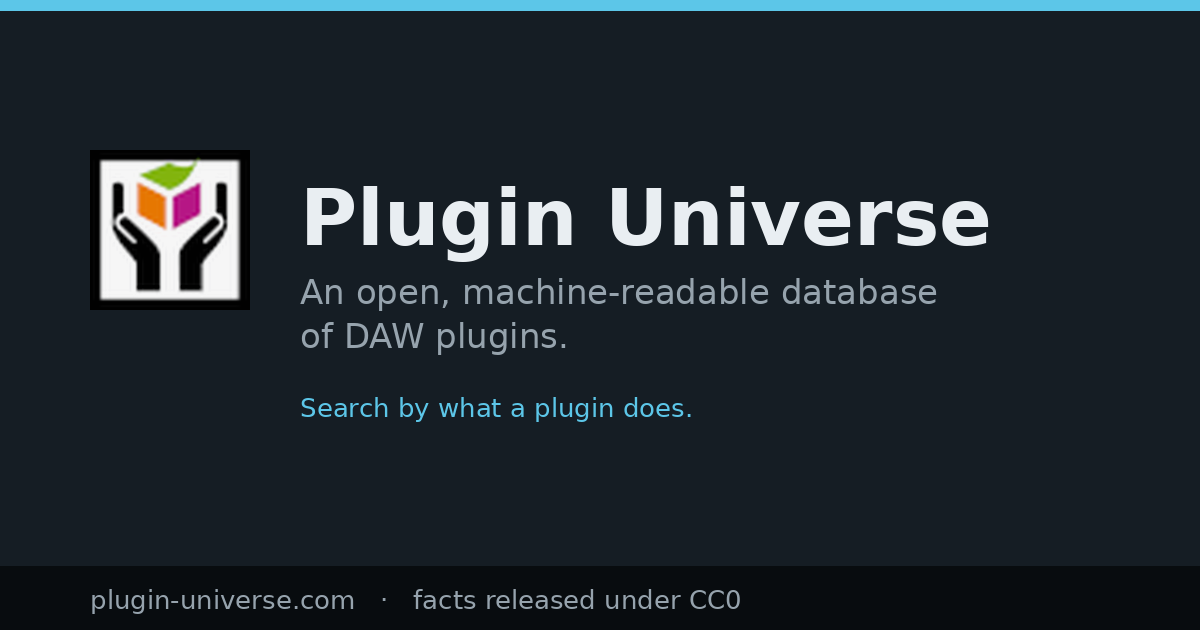
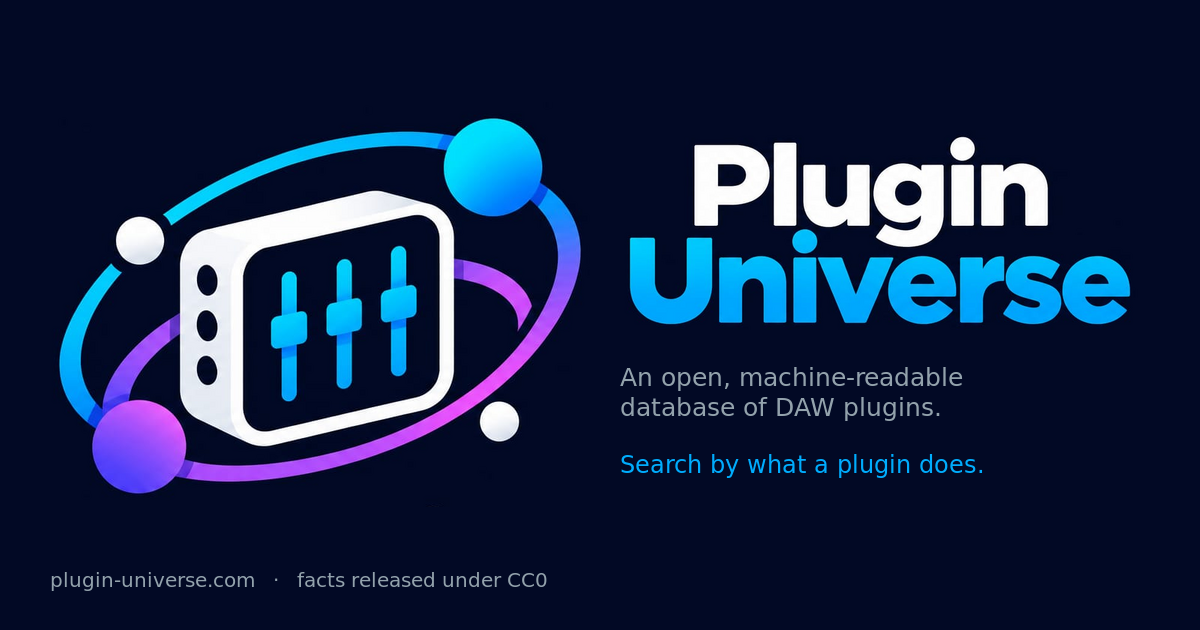
branding

diff --git a/tests/api/metadata.test.js b/tests/api/metadata.test.js
@@ -6,6 +6,7 @@ import {
 } from '../../src/api/render.js'
 import { PAGES } from '../../src/api/pages.js'
 import { readFileSync } from 'fs'
+import { STATIC_FILES } from '../../src/api/server.js'
 import Config from '../../src/Config.js'
 
 /**
@@ -170,5 +171,45 @@ describe('the prose pages describe themselves', () => {
     expect(PAGES['/leggere-prima'].lang).toBe('it')
     const html = renderDocPage({ ...PAGES['/leggere-prima'], html: '<p>Ciao.</p>' })
     expect(html).toContain('<html lang="it">')
+  })
+})
+
+describe('the brand images', () => {
+  const size = file => {
+    const bytes = readFileSync(file)
+    return { width: bytes.readUInt32BE(16), height: bytes.readUInt32BE(20) }
+  }
+
+  it('serves every icon the manifest and the layout name', () => {
+    const manifest = JSON.parse(readFileSync('site.webmanifest', 'utf8'))
+    const html = PAGE_TYPES.landing()
+    const named = [
+      ...manifest.icons.map(icon => icon.src),
+      ...[...html.matchAll(/<link rel="(?:icon|apple-touch-icon|manifest)"[^>]*href="([^"]+)"/g)].map(m => m[1])
+    ]
+    expect(named.length).toBeGreaterThanOrEqual(5)
+    for (const path of named) {
+      expect(STATIC_FILES[path], `${path} is named but not served`).toBeTruthy()
+    }
+    // The header mark is an <img>, which linked-routes reads; it must also exist.
+    expect(html).toContain('src="/icon-192.png"')
+  })
+
+  it('declares each manifest icon at the size the file really is', () => {
+    const manifest = JSON.parse(readFileSync('site.webmanifest', 'utf8'))
+    for (const icon of manifest.icons) {
+      const { width, height } = size(STATIC_FILES[icon.src].file)
+      expect(`${width}x${height}`, icon.src).toBe(icon.sizes)
+    }
+  })
+
+  it('keeps the apple-touch-icon at 180px', () => {
+    expect(size('apple-touch-icon.png')).toEqual({ width: 180, height: 180 })
+  })
+
+  it('gives the Twitter card an image and its description', () => {
+    const html = PAGE_TYPES.landing()
+    expect(tag(html, 'twitter:image')).toBe(`${ORIGIN}/og-image.png`)
+    expect(tag(html, 'twitter:image:alt')).toBeTruthy()
   })
 })

diff --git a/src/api/server.js b/src/api/server.js
@@ -177,13 +177,14 @@ export const BUILD = Object.freeze({
  */
 export const STATIC_FILES = Object.freeze({
   '/robots.txt': { file: 'robots.txt', type: 'text/plain; charset=utf-8' },
-  // The site mark. A placeholder: it is the hyperdata.it favicon, which is the
-  // owner's own design, standing in until this project has one of its own.
+  // The site mark, cut from docs/images/logo.jpeg by deploy/build-brand-assets.sh.
   //
-  // Both forms, because browsers ask for them differently. `<link rel="icon">`
+  // Several forms, because clients ask for them differently. `<link rel="icon">`
   // in the layout points at the PNG; a browser that has not read the markup yet
   // — or a feed reader, or a bookmarking tool — asks for `/favicon.ico` at the
-  // root by convention, and answering 404 to that is a needless miss.
+  // root by convention, and answering 404 to that is a needless miss. iOS wants
+  // the apple-touch-icon, and the manifest's two sizes are what Android and
+  // installed-app surfaces use (the header mark reuses the 192).
   // The site's one script: a spinner on a submit button and nothing else.
   // Served as a file rather than inlined so a Content-Security-Policy can be
   // added later without an exception, and so a browser caches it.
@@ -209,6 +210,26 @@ export const STATIC_FILES = Object.freeze({
     file: 'favicon.ico',
     type: 'image/x-icon',
     cache: 'public, max-age=604800'
+  },
+  '/apple-touch-icon.png': {
+    file: 'apple-touch-icon.png',
+    type: 'image/png',
+    cache: 'public, max-age=604800'
+  },
+  '/icon-192.png': {
+    file: 'icon-192.png',
+    type: 'image/png',
+    cache: 'public, max-age=604800'
+  },
+  '/icon-512.png': {
+    file: 'icon-512.png',
+    type: 'image/png',
+    cache: 'public, max-age=604800'
+  },
+  '/site.webmanifest': {
+    file: 'site.webmanifest',
+    type: 'application/manifest+json; charset=utf-8',
+    cache: 'public, max-age=86400'
   }
 })
 

diff --git a/templates/site.css b/templates/site.css
@@ -75,9 +75,11 @@ header { border-bottom:0; padding-bottom:.8rem; margin-bottom:1.25rem; position:
 /* A band of accent across the very top. Full width, above everything, and it
    is most of what makes the page look composed rather than defaulted. */
 body { border-top:4px solid var(--accent); }
-h1 a::before { content:""; display:inline-block; width:.55rem; height:.55rem;
-               margin-right:.5rem; background:var(--accent); border-radius:1px;
-               vertical-align:baseline; }
+/* The brand mark in front of the title, replacing the accent square that stood
+   in for one. Explicit width and height on the image reserve its space, so the
+   header does not shift as it loads. */
+h1 a { display:inline-flex; align-items:center; gap:.6rem; }
+h1 .mark { width:2.1rem; height:2.1rem; border-radius:.45rem; }
 /* The bar wraps rather than overflowing. It has collided with the title twice:
    once when it grew from one link to two and a button, and again when a third
    link was added — an absolutely positioned corner has no way to say "I have

diff --git a/templates/layout.html b/templates/layout.html
@@ -7,7 +7,11 @@
   <title>{{title}}</title>
   {{{description}}}
   {{{social}}}
+  <link rel="icon" href="/favicon.ico" sizes="16x16 32x32 48x48">
   <link rel="icon" type="image/png" sizes="48x48" href="/favicon.png">
+  <link rel="apple-touch-icon" href="/apple-touch-icon.png">
+  <link rel="manifest" href="/site.webmanifest">
+  <meta name="theme-color" content="#020925">
   {{{style}}}
   <script src="/site.js" defer></script>
 </head>
@@ -17,7 +21,7 @@
   <div class="wrap">
     <header>
       {{{account}}}
-      <h1><a href="/">Plugin Universe</a></h1>
+      <h1><a href="/"><img class="mark" src="/icon-192.png" width="36" height="36" alt="">Plugin Universe</a></h1>
       <p class="tagline">An open database of DAW plugins. <strong>Under Construction - <a href="/read-me-first">Read Me
             First</a></strong></p>
     </header>

diff --git a/tests/api/linked-routes.test.js b/tests/api/linked-routes.test.js
@@ -275,6 +275,9 @@ describe('the routes the site links to', () => {
     // as an absolute URL built at render time. The guard reads href, action and
     // src attributes; a meta content is a different kind of reference and
     // teaching it to read those would mean reading every page description too.
+    '/apple-touch-icon.png': 'iOS asks for it by convention; <link rel="apple-touch-icon"> points at it too, but as a link element the guard does not read',
+    '/site.webmanifest': 'linked from <link rel="manifest">, which the guard does not read',
+    '/icon-512.png': 'named in site.webmanifest, which is JSON and not markup',
     '/og-image.png': 'the social card, referenced by absolute URL in og:image on every page',
     '/moderation': 'moved to /admin; kept as a redirect for old bookmarks, and linked from nothing'
   })

diff --git a/tests/store/server-starts.test.js b/tests/store/server-starts.test.js
@@ -93,6 +93,11 @@ describe('bin/serve.js', () => {
     ['/ns', 200, 'meta'],
     ['/ns/trn-profile.ttl', 200, 'meta'],
     ['/registry/plugins/index.json', 200, 'meta'],
+    ['/favicon.ico', 200, 'meta'],
+    ['/apple-touch-icon.png', 200, 'meta'],
+    ['/icon-192.png', 200, 'meta'],
+    ['/icon-512.png', 200, 'meta'],
+    ['/site.webmanifest', 200, 'meta'],
     ['/about/profiles', 200, 'prose'],
     ['/terms', 200, 'prose'],
     ['/nonsense', 404, 'the fall-through']

diff --git a/tests/api/images.test.js b/tests/api/images.test.js
@@ -114,7 +114,8 @@ describe('where the image appears', () => {
 
   it('leaves no gap for a plugin that has no image', () => {
     const page = renderPluginPage({ ...DOC, image: null })
-    expect(page).not.toContain('<img')
+    // Not `<img` alone: the header carries the site mark on every page.
+    expect(page).not.toMatch(/<img(?![^>]*class="mark")/)
     expect(page).toContain('Example Reverb')
   })
 })

diff --git a/src/api/meta-routes.js b/src/api/meta-routes.js
@@ -30,6 +30,7 @@ import { buildSitemap } from './sitemap.js'
 
 const PATHS = new Set([
   '/health', '/robots.txt', '/sitemap.xml', '/favicon.png', '/favicon.ico', '/og-image.png', '/site.js',
+  '/apple-touch-icon.png', '/icon-192.png', '/icon-512.png', '/site.webmanifest',
   '/registry/plugins/index.json', '/ns'
 ])
 const VOCAB_PATH = /^\/ns\/([a-z0-9-]+)\.ttl$/

diff --git a/templates/social-meta.html b/templates/social-meta.html
@@ -9,5 +9,6 @@
   <meta name="twitter:title" content="{{title}}">
   <meta name="twitter:description" content="{{description}}">
   <meta name="twitter:image" content="{{image}}">
+  <meta name="twitter:image:alt" content="{{imageAlt}}">
   {{{appId}}}
   {{{canonical}}}

diff --git a/HUMANS.md b/HUMANS.md
@@ -228,6 +228,14 @@ Nothing here needs server access. The profiler runs on this machine.
   likely to be wrong.
 * **Commit `data/curation/github-candidates.json`** if you have not. It records
   decisions you made about which repositories to harvest, not output.
+* **After deploying the branding, make the platforms re-read the card.** X,
+  Facebook and LinkedIn cache `og-image.png` for days; the old placeholder will
+  keep showing until you re-scrape — the Facebook Sharing Debugger and LinkedIn
+  Post Inspector have a button, and X refreshes on its own within about a week.
+  The card carries no `twitter:site` because the project's handle is not
+  recorded anywhere; if there is one, say so and it is one more meta tag.
+  Also reload a browser tab with a hard refresh to see the new favicon — they
+  are cached hard.
 * **A new `GITHUB_TOKEN`** whenever you next sweep. Settings → Developer
   settings → Personal access tokens, **no scopes**. The old one was revoked and
   deliberately not replaced; revoking it again afterwards is a reasonable habit.
